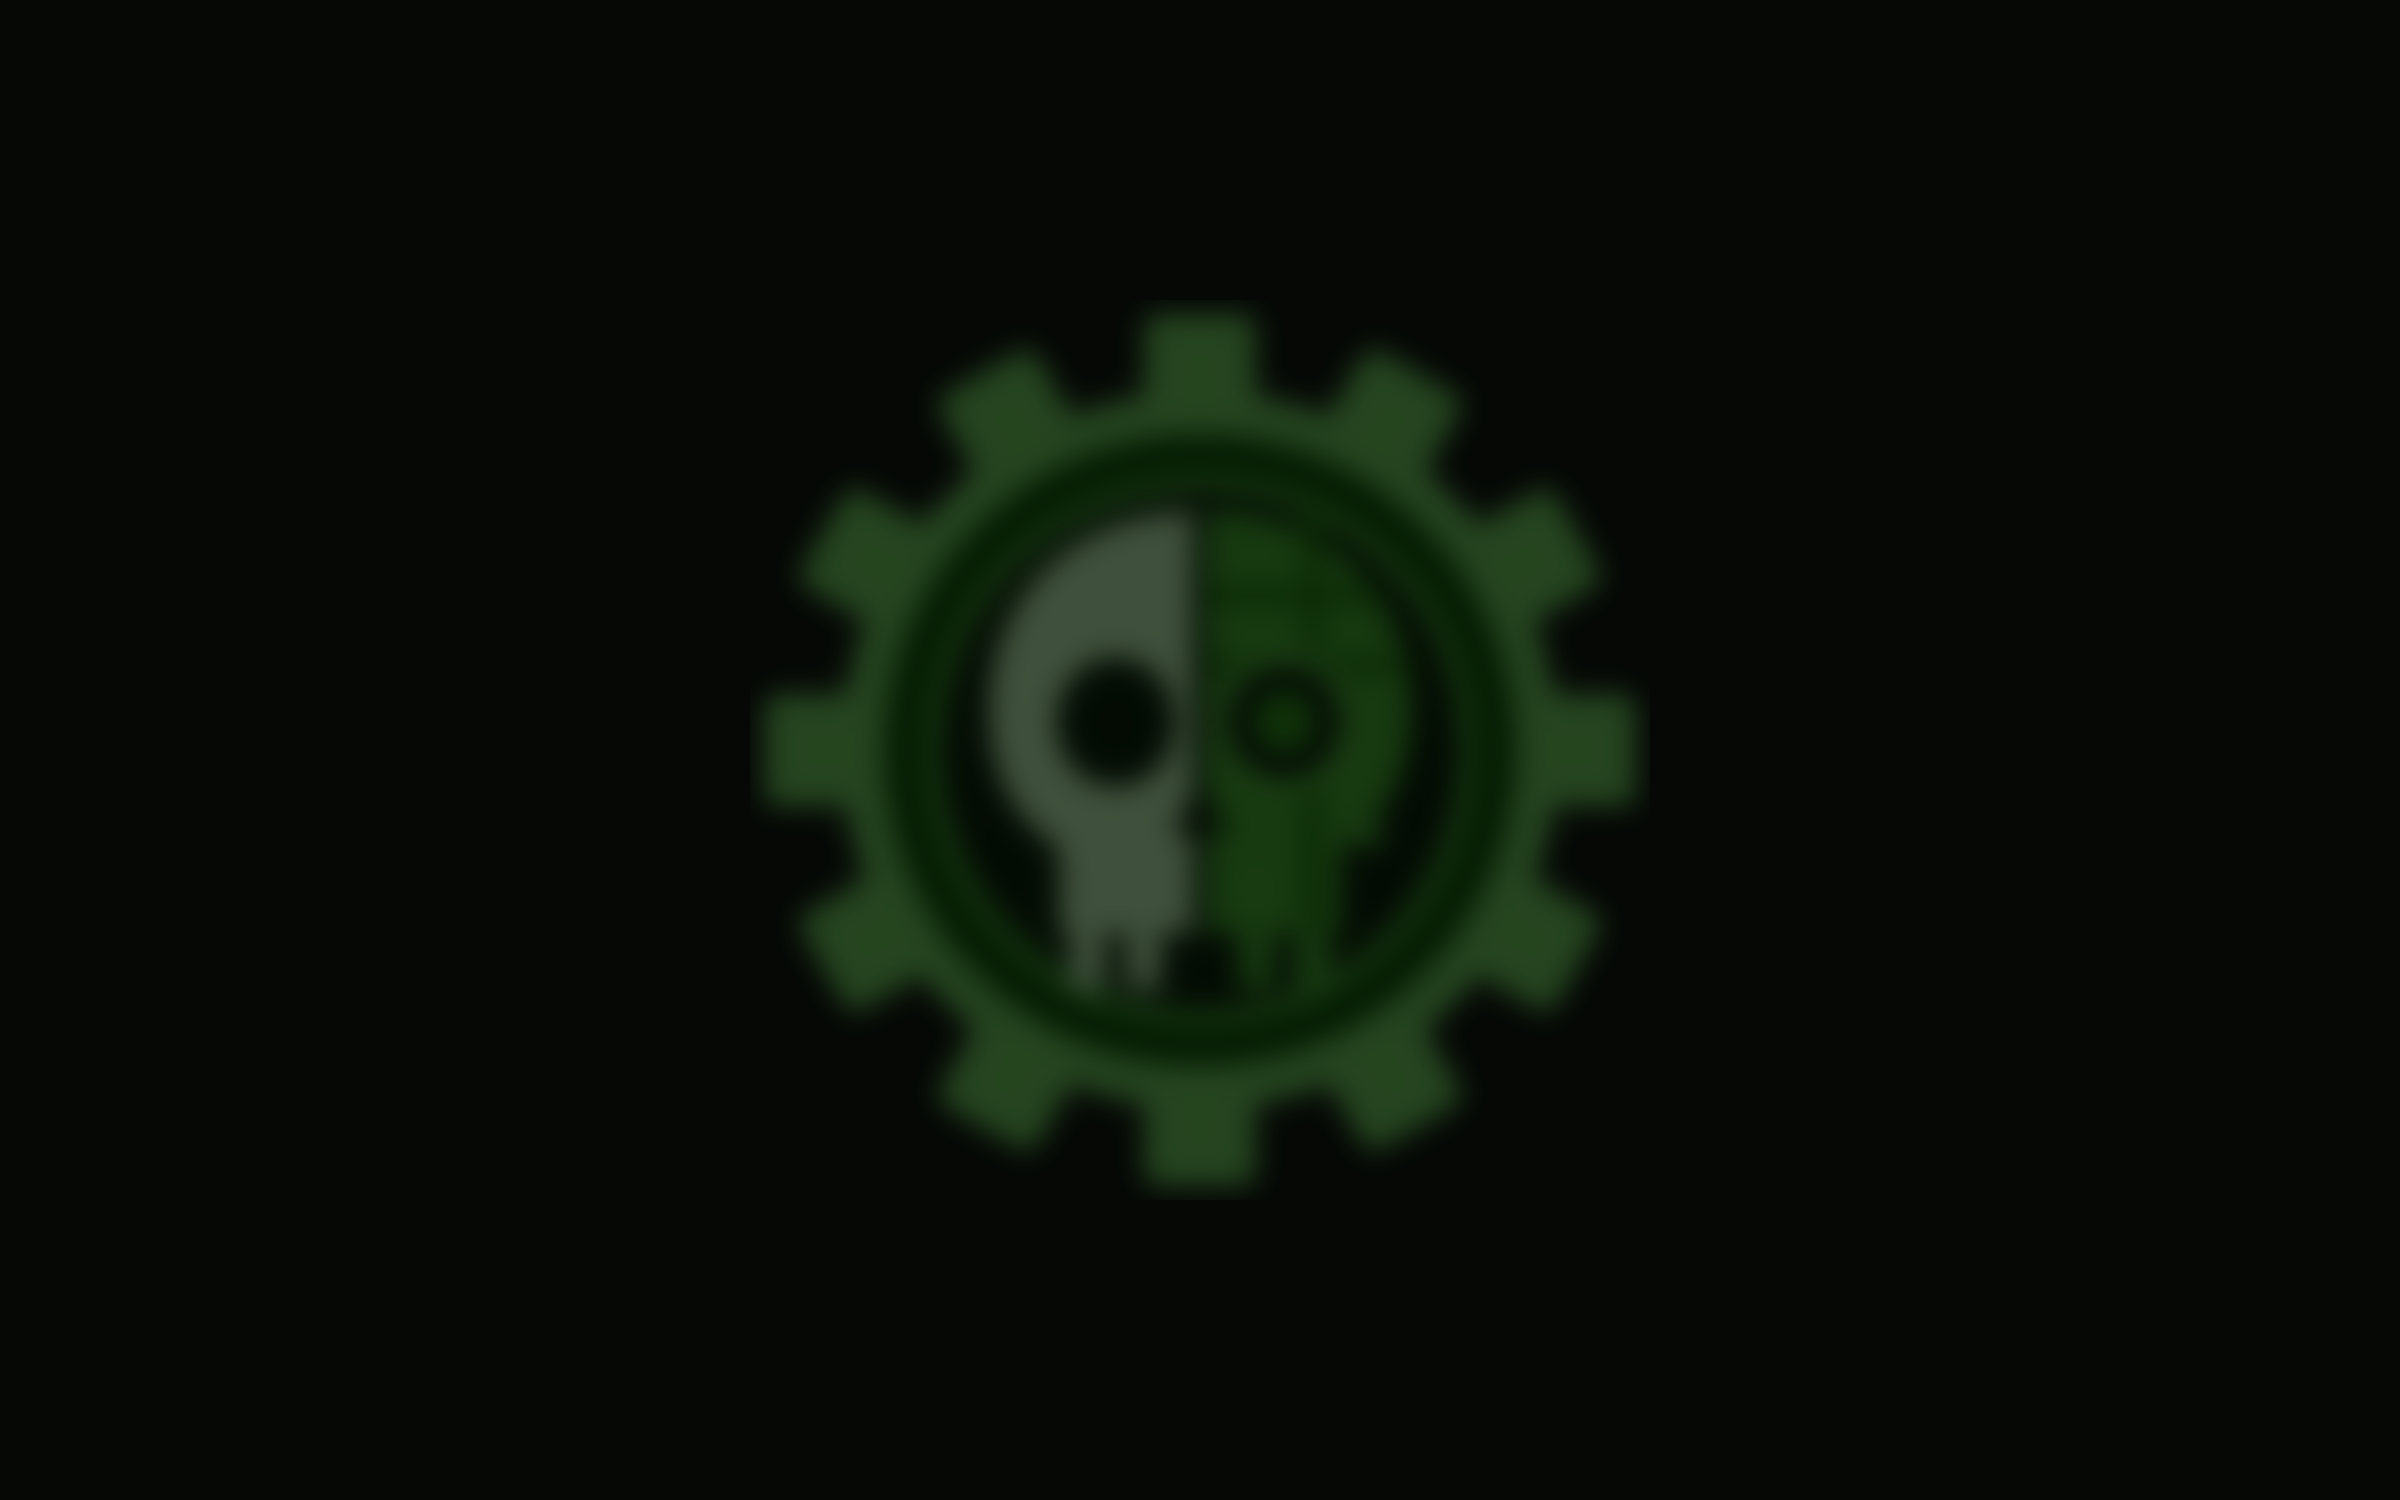
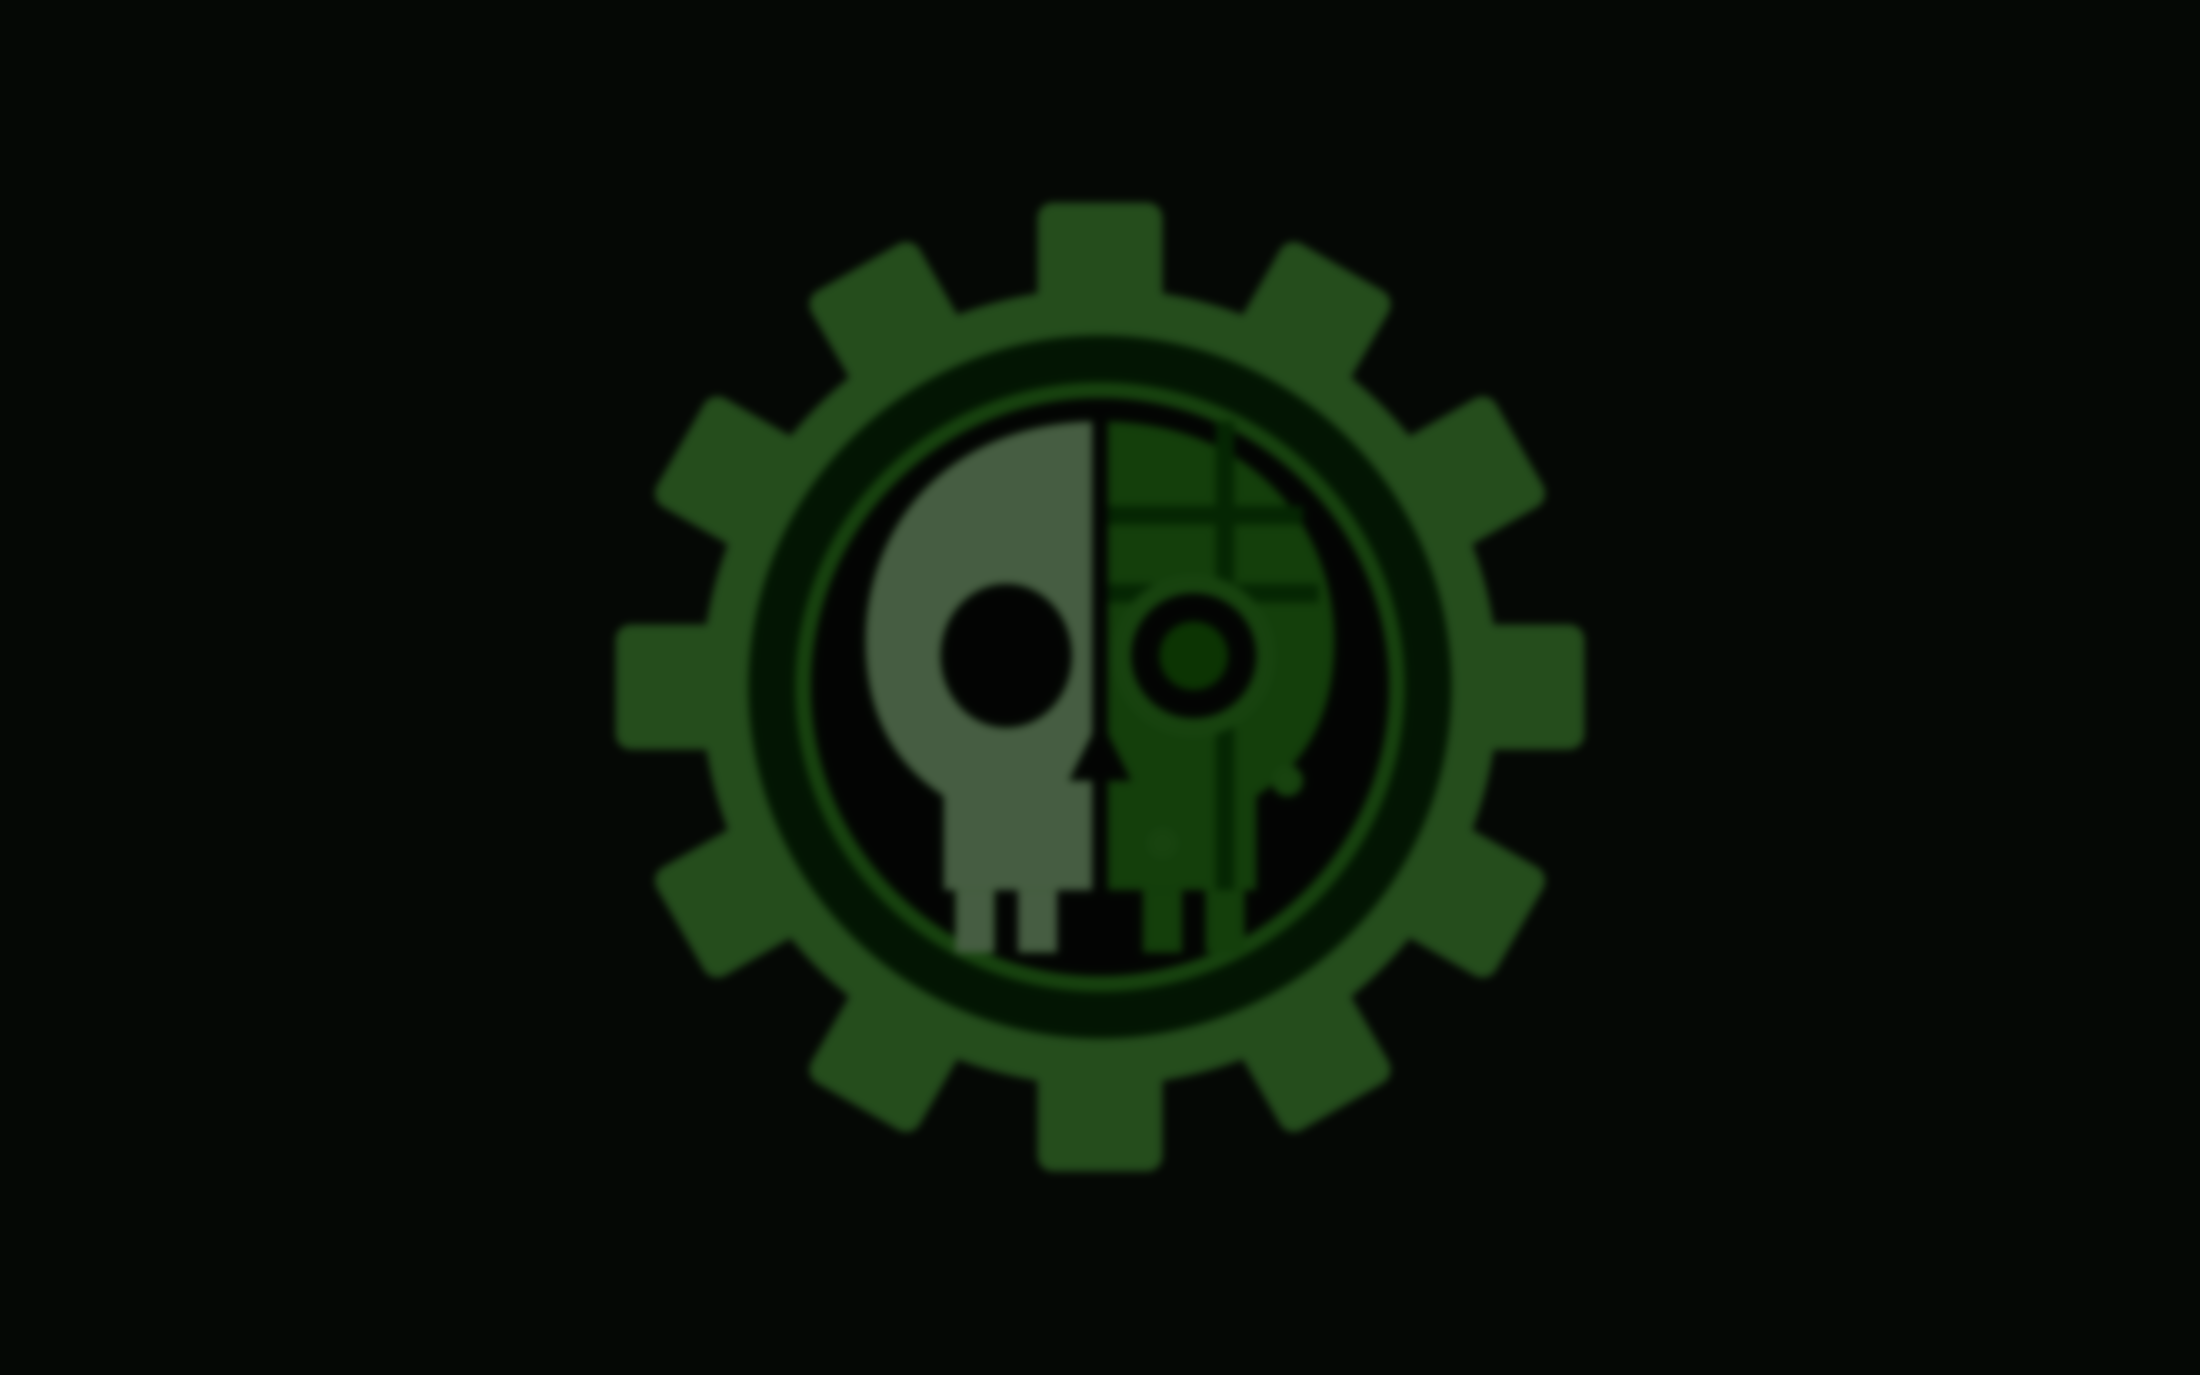
Terminal backdrop: make the cog-skull emblem visible
The emblem was too faint behind terminals (13-32% alpha, heavy blur,
terminal_opacity 0.55). Now a brighter green at about 38% with a lighter
blur on a tighter canvas, and terminal_opacity 0.35.

Changed region(s): [[0.2782, 0.1222, 0.7418, 0.8553]]

diff --git a/README.md b/README.md
@@ -134,7 +134,7 @@ sidebar.
 | `herdr/mods/auspex/` | AUSPEX, always shown in the left sidebar between Spaces and Servitors: the focused repo's branch, dirty state, ahead/behind and last commit (an icon opens the full message in a dialog); its submodules as an expandable tree of the import hierarchy, named by repo, each with state (synced, moved, dirty, uninitialized, conflict), branch (found by name for detached commits) and last commit; the open PR of every session in the shown tab and PR links found in its terminals (screens and Claude transcripts), with checks and review state via gh (cached 3 min); Jira links for issue keys; per-repo notes. Read-only, polls only while shown |
 | `herdr/mods/servitors-mechanicus/` | Copy of Herdr's `agents` mod (all its features: grouping, sort, pin, peek, history, sub-agents), restyled as SERVITORS |
 | `herdr/mods/status-mechanicus/`, `pane-mechanicus/`, `chrome-mechanicus/` | Copies of Herdr's `workspace-status`, `pane` and `workspace-chrome` (sidebar brand and footer) mods, restyled only; `chrome-mechanicus/cog-skull.svg` is the cog-and-skull emblem in the brand block |
-| `herdr/backgrounds/mechanicus-terminal.png` | Blurred green cog-skull behind every terminal (pane frame background; layout `terminal_opacity` 0.55) |
+| `herdr/backgrounds/mechanicus-terminal.png` | Blurred green cog-skull behind every terminal (pane frame background; layout `terminal_opacity` 0.35) |
 | `herdr/themes/mechanicus.json` | Adeptus Mechanicus cogitator theme: phosphor green on black, brass accents, forge-red buttons |
 | `herdr/mods/spaces-profile/fonts/` | Share Tech Mono (OFL), the UI font of the Mechanicus look |
 | `herdr/keys.fragment.json` | Our key bindings (`__HOME__` = home folder), merged into `keys.json` |
